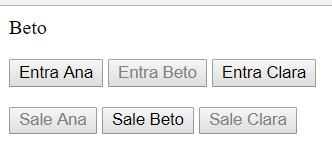
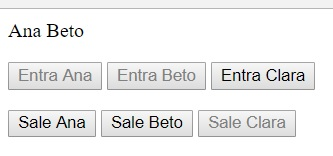
sigo con micromejoras

diff --git a/javascript/javascript-dom-basics-ejemplos.md b/javascript/javascript-dom-basics-ejemplos.md
@@ -48,7 +48,7 @@ Se utiliza una variable para recordar cuál es el color actual.
   Ahora son tres personas que pueden, o no, estar. Digamos Ana, Beto y Clara. Ahora la página debería verse así: 
   ![tres personas](images/ana-beto-clara.jpg "Entrada y salida de tres personas")  
   **<span style="color: blue">De lujo</span>**  
-  que solamente estén habilitados los botones que tienen sentido. Como se muestra en la imagen: al estar solamente Beto, los botones habilitados son para que salga Beto, y para que entren Ana o Clara.  
+  que solamente estén habilitados los botones que tienen sentido. Como se muestra en la imagen: al estar Ana Beto, los botones habilitados son para que salga uno de ellos, y para que entre Clara.  
   Para esto, hay que manejar el atributo `disabled` de los botones, poniéndole un id a cada botón. Para p.ej. desabilitar el botón llamado `entraAnaButton`, se pone
   ```
   document.getElementById("entraAnaButton").disabled = true
